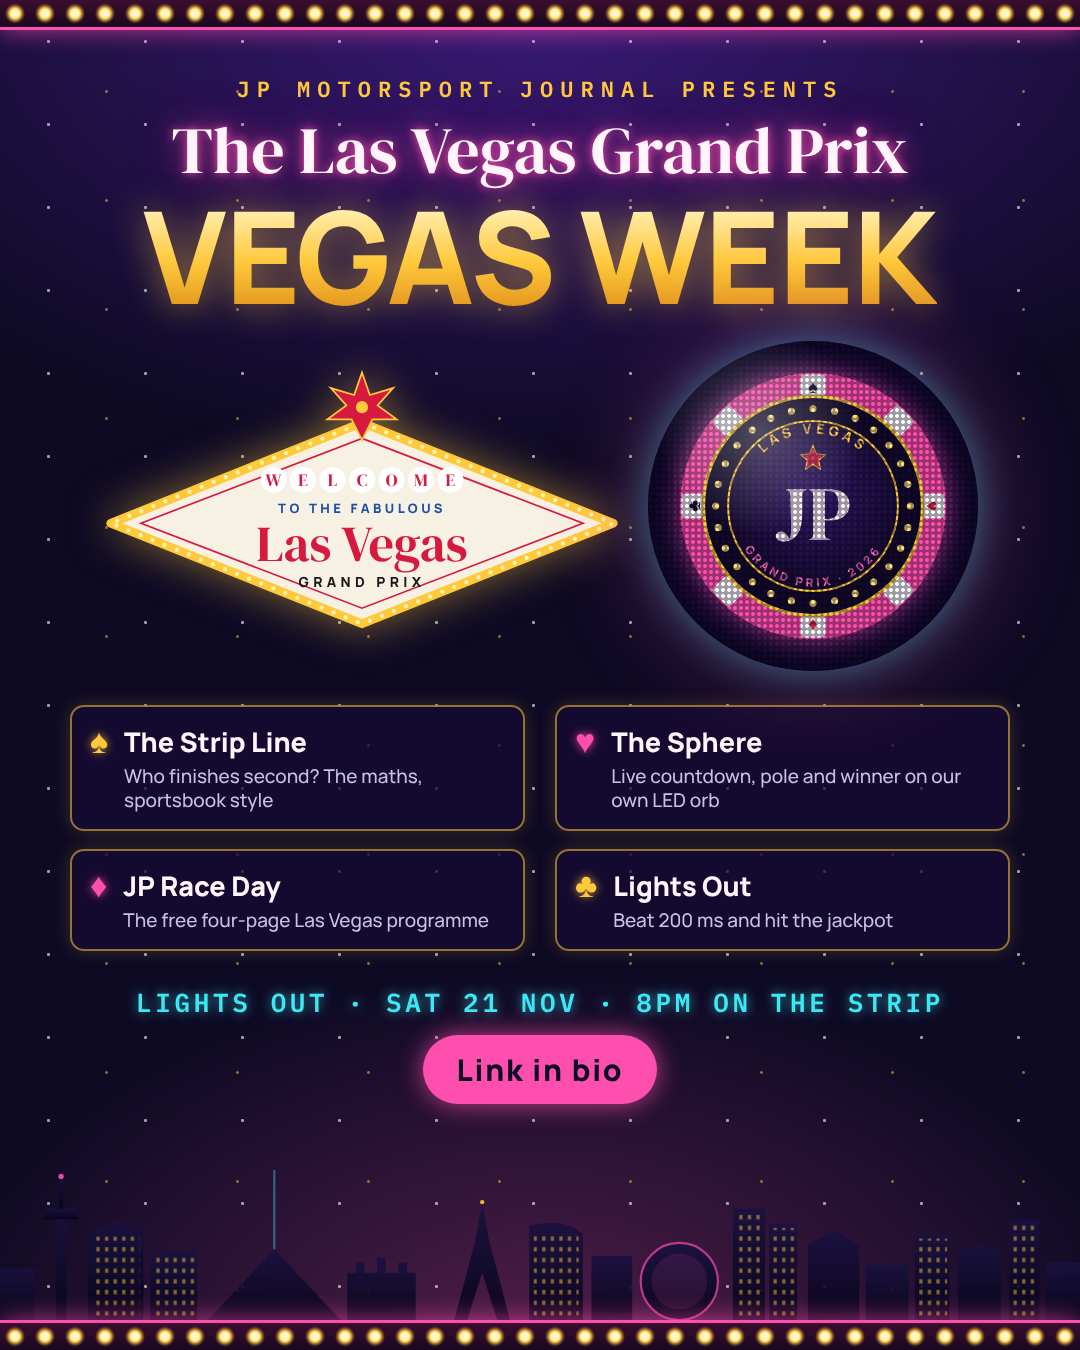
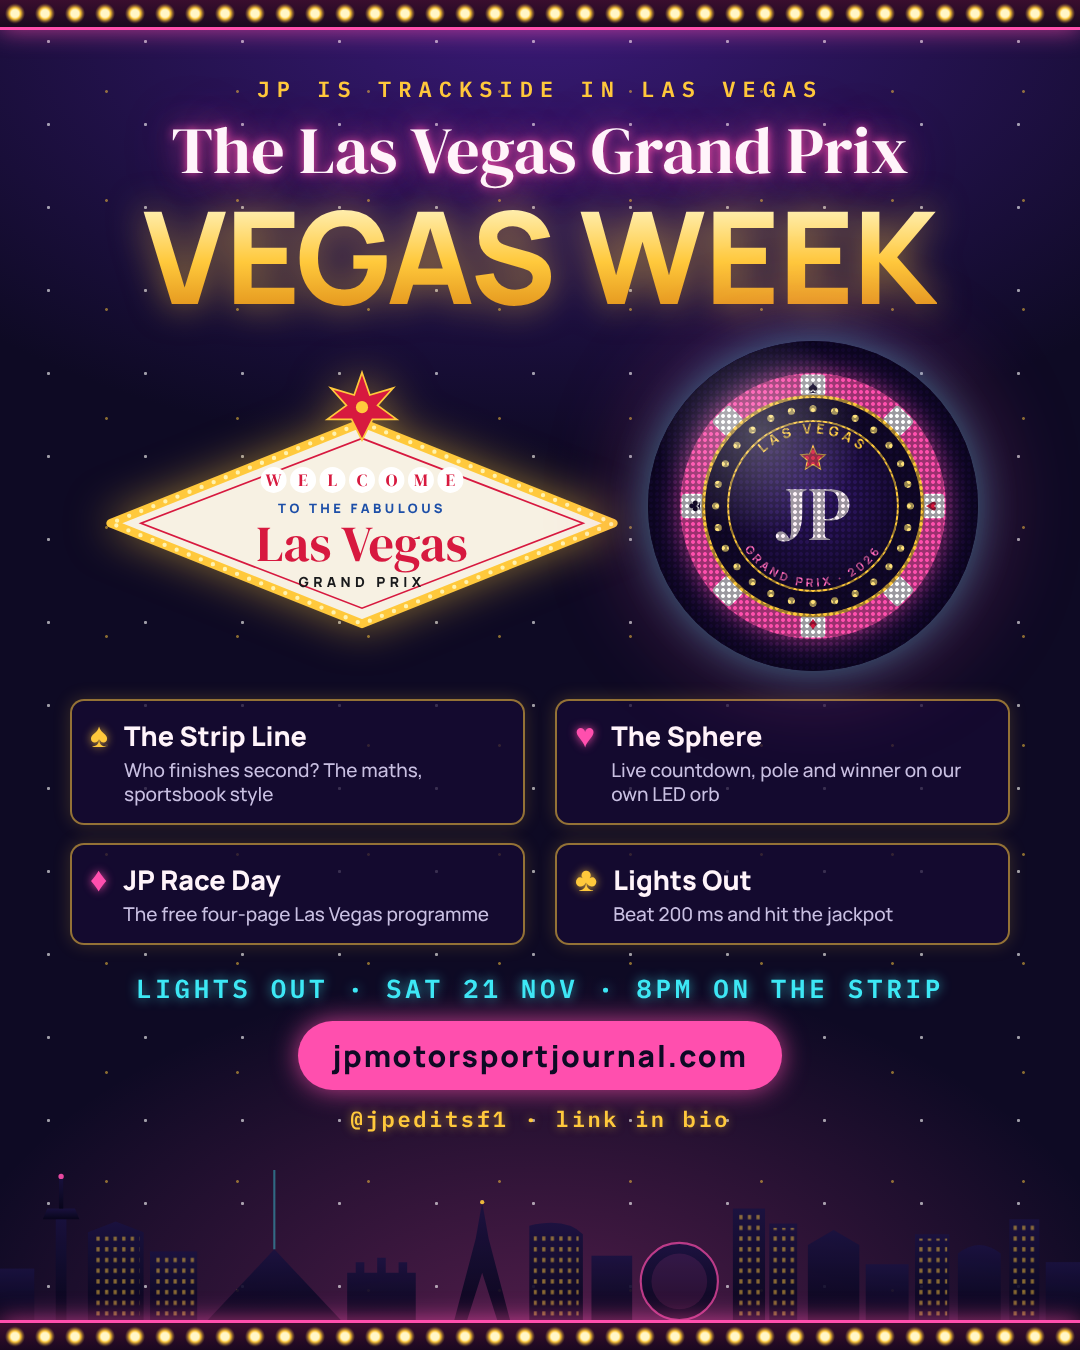
Promo: handle, site address and trackside line; caption; site_url for Race Day
Claude-Session: https://claude.ai/code/session_01XoehdVJCBcZsF325ffTd8M

diff --git a/promo/vegas-post.html b/promo/vegas-post.html
@@ -28,23 +28,24 @@ box-shadow:0 0 40px rgba(61,232,245,.4),0 0 100px rgba(255,79,174,.35)}
 .sphere::after{content:"";position:absolute;inset:0;border-radius:50%;z-index:3;
 background:radial-gradient(circle at 34% 28%,rgba(255,255,255,.28),transparent 32%),radial-gradient(circle,transparent 60%,rgba(0,0,0,.35) 80%,rgba(0,0,0,.75) 100%)}
 .duo.stack{flex-direction:column;gap:30px}
-ul{list-style:none;margin-top:34px;width:100%;display:grid;grid-template-columns:1fr 1fr;gap:18px 30px}
+ul{list-style:none;margin-top:28px;width:100%;display:grid;grid-template-columns:1fr 1fr;gap:18px 30px}
 li{display:flex;gap:16px;align-items:flex-start;border:2px solid rgba(255,201,60,.55);border-radius:14px;padding:16px 18px;
 background:rgba(23,11,51,.75);box-shadow:0 0 18px rgba(255,201,60,.18)}
 .suit{font-size:34px;line-height:1;color:#FFC93C;text-shadow:0 0 10px rgba(255,201,60,.8)}
 .s1,.s2{color:#FF4FAE;text-shadow:0 0 10px rgba(255,79,174,.9)}
 li b{display:block;font-size:27px;font-weight:800;color:#FFF4FA}
 li em{display:block;font-style:normal;font-size:19px;line-height:1.3;color:#C9C0E2;margin-top:4px}
-.race{margin-top:34px;text-align:center}
+.race{margin-top:26px;text-align:center}
 .race .when{font-family:'IBM Plex Mono',monospace;font-weight:600;font-size:26px;letter-spacing:.14em;color:#3DE8F5;text-shadow:0 0 12px rgba(61,232,245,.7)}
 .race .cta{display:inline-block;margin-top:16px;font-weight:800;font-size:30px;letter-spacing:.06em;color:#0E0A24;background:#FF4FAE;
 padding:14px 34px;border-radius:999px;box-shadow:0 0 26px rgba(255,79,174,.75)}
 .sky{position:absolute;left:0;right:0;bottom:30px;height:150px;background:url("../img/vegas-skyline.svg") center bottom/auto 150px repeat-x;opacity:.9}
+.race .handle{margin-top:14px;font-family:'IBM Plex Mono',monospace;font-weight:600;font-size:22px;letter-spacing:.12em;color:#FFC93C;text-shadow:0 0 10px rgba(255,201,60,.6)}
 </style></head><body>
 <div class="bulbs top"></div>
 <div class="sky"></div>
 <div class="wrap">
-  <div class="kick">JP Motorsport Journal presents</div>
+  <div class="kick">JP is trackside in Las Vegas</div>
   <div class="word">The Las Vegas Grand Prix</div>
   <div class="week">VEGAS WEEK</div>
   <div class="duo"><div class="sign"><svg viewBox="0 0 600 310" role="presentation" focusable="false">
@@ -59,7 +60,7 @@ padding:14px 34px;border-radius:999px;box-shadow:0 0 26px rgba(255,79,174,.75)}
         <circle cx="300" cy="44" r="7" fill="#FFC93C"/>
       </svg></div><div class="sphere"><svg class="vg-chip" viewBox="0 0 200 200" focusable="false"><defs><radialGradient id="vgc-core" cx="50%" cy="42%" r="60%"><stop offset="0" stop-color="#3A1C78"/><stop offset="1" stop-color="#12082C"/></radialGradient><path id="vgc-top" d="M 47 100 A 53 53 0 0 1 153 100"/><path id="vgc-bot" d="M 41 100 A 59 59 0 0 0 159 100"/></defs><circle cx="100" cy="100" r="97" fill="#FF4FAE"/><rect x="91" y="4" width="18" height="16" rx="3" fill="#FFFFFF" transform="rotate(0 100 100)"/><text x="100" y="17.5" text-anchor="middle" font-size="13" fill="#12082C" transform="rotate(0 100 100)">♠</text><rect x="91" y="4" width="18" height="16" rx="3" fill="#FFFFFF" transform="rotate(45 100 100)"/><rect x="91" y="4" width="18" height="16" rx="3" fill="#FFFFFF" transform="rotate(90 100 100)"/><text x="100" y="17.5" text-anchor="middle" font-size="13" fill="#D7193F" transform="rotate(90 100 100)">♥</text><rect x="91" y="4" width="18" height="16" rx="3" fill="#FFFFFF" transform="rotate(135 100 100)"/><rect x="91" y="4" width="18" height="16" rx="3" fill="#FFFFFF" transform="rotate(180 100 100)"/><text x="100" y="17.5" text-anchor="middle" font-size="13" fill="#D7193F" transform="rotate(180 100 100)">♦</text><rect x="91" y="4" width="18" height="16" rx="3" fill="#FFFFFF" transform="rotate(225 100 100)"/><rect x="91" y="4" width="18" height="16" rx="3" fill="#FFFFFF" transform="rotate(270 100 100)"/><text x="100" y="17.5" text-anchor="middle" font-size="13" fill="#12082C" transform="rotate(270 100 100)">♣</text><rect x="91" y="4" width="18" height="16" rx="3" fill="#FFFFFF" transform="rotate(315 100 100)"/><circle cx="100" cy="100" r="80" fill="#12082C" stroke="#FFC93C" stroke-width="2.5"/><circle cx="171.0" cy="100.0" r="2.6" fill="#FFE27A"/><circle cx="169.2" cy="115.8" r="2.6" fill="#FFE27A"/><circle cx="164.0" cy="130.8" r="2.6" fill="#FFE27A"/><circle cx="155.5" cy="144.3" r="2.6" fill="#FFE27A"/><circle cx="144.3" cy="155.5" r="2.6" fill="#FFE27A"/><circle cx="130.8" cy="164.0" r="2.6" fill="#FFE27A"/><circle cx="115.8" cy="169.2" r="2.6" fill="#FFE27A"/><circle cx="100.0" cy="171.0" r="2.6" fill="#FFE27A"/><circle cx="84.2" cy="169.2" r="2.6" fill="#FFE27A"/><circle cx="69.2" cy="164.0" r="2.6" fill="#FFE27A"/><circle cx="55.7" cy="155.5" r="2.6" fill="#FFE27A"/><circle cx="44.5" cy="144.3" r="2.6" fill="#FFE27A"/><circle cx="36.0" cy="130.8" r="2.6" fill="#FFE27A"/><circle cx="30.8" cy="115.8" r="2.6" fill="#FFE27A"/><circle cx="29.0" cy="100.0" r="2.6" fill="#FFE27A"/><circle cx="30.8" cy="84.2" r="2.6" fill="#FFE27A"/><circle cx="36.0" cy="69.2" r="2.6" fill="#FFE27A"/><circle cx="44.5" cy="55.7" r="2.6" fill="#FFE27A"/><circle cx="55.7" cy="44.5" r="2.6" fill="#FFE27A"/><circle cx="69.2" cy="36.0" r="2.6" fill="#FFE27A"/><circle cx="84.2" cy="30.8" r="2.6" fill="#FFE27A"/><circle cx="100.0" cy="29.0" r="2.6" fill="#FFE27A"/><circle cx="115.8" cy="30.8" r="2.6" fill="#FFE27A"/><circle cx="130.8" cy="36.0" r="2.6" fill="#FFE27A"/><circle cx="144.3" cy="44.5" r="2.6" fill="#FFE27A"/><circle cx="155.5" cy="55.7" r="2.6" fill="#FFE27A"/><circle cx="164.0" cy="69.2" r="2.6" fill="#FFE27A"/><circle cx="169.2" cy="84.2" r="2.6" fill="#FFE27A"/><circle cx="100" cy="100" r="62" fill="url(#vgc-core)" stroke="#FFC93C" stroke-width="1.5"/><text font-family="Manrope, system-ui, sans-serif" font-weight="800" font-size="10" letter-spacing="3" fill="#FFC93C"><textPath href="#vgc-top" startOffset="50%" text-anchor="middle">LAS VEGAS</textPath></text><text font-family="Manrope, system-ui, sans-serif" font-weight="800" font-size="8.5" letter-spacing="2.4" fill="#FF6BBD"><textPath href="#vgc-bot" startOffset="50%" text-anchor="middle">GRAND PRIX · 2026</textPath></text><path d="M100 56 l2.6 6 6.4.6-4.9 4.2 1.5 6.3-5.6-3.4-5.6 3.4 1.5-6.3-4.9-4.2 6.4-.6z" fill="#D7193F" stroke="#FFC93C" stroke-width=".8"/><text x="100" y="125" text-anchor="middle" font-family="DM Serif Display, Georgia, serif" font-size="56" fill="#FFF4FA" class="vgc-jp">JP</text></svg></div></div>
   <ul><li><span class="suit s0">♠</span><span><b>The Strip Line</b><em>Who finishes second? The maths, sportsbook style</em></span></li><li><span class="suit s1">♥</span><span><b>The Sphere</b><em>Live countdown, pole and winner on our own LED orb</em></span></li><li><span class="suit s2">♦</span><span><b>JP Race Day</b><em>The free four-page Las Vegas programme</em></span></li><li><span class="suit s3">♣</span><span><b>Lights Out</b><em>Beat 200 ms and hit the jackpot</em></span></li></ul>
-  <div class="race"><div class="when">LIGHTS OUT · SAT 21 NOV · 8PM ON THE STRIP</div><div class="cta">Link in bio</div></div>
+  <div class="race"><div class="when">LIGHTS OUT · SAT 21 NOV · 8PM ON THE STRIP</div><div class="cta">jpmotorsportjournal.com</div><div class="handle">@jpeditsf1 · link in bio</div></div>
 </div>
 <div class="bulbs bot"></div>
 </body></html>

diff --git a/promo/vegas-story.html b/promo/vegas-story.html
@@ -11,7 +11,7 @@ radial-gradient(ellipse 80% 40% at 50% 100%,rgba(255,79,174,.28) 0%,transparent 
 background:radial-gradient(circle,#FFF6C8 0 4px,#FFC93C 5.5px,rgba(255,201,60,.35) 8px,transparent 10px) 0 50%/30px 30px repeat-x,linear-gradient(#3A0E2E,#1A0820)}
 .top{top:0;border-bottom:3px solid #FF4FAE;box-shadow:0 0 24px rgba(255,79,174,.7)}
 .bot{bottom:0;border-top:3px solid #FF4FAE;box-shadow:0 0 24px rgba(255,79,174,.7)}
-.wrap{position:absolute;inset:30px 0;display:flex;flex-direction:column;align-items:center;padding:190px 70px 0}
+.wrap{position:absolute;inset:30px 0;display:flex;flex-direction:column;align-items:center;padding:170px 70px 0}
 .kick{font-family:'IBM Plex Mono',monospace;font-weight:600;font-size:22px;letter-spacing:.32em;color:#FFC93C;text-transform:uppercase}
 .word{font-family:'DM Serif Display',serif;font-size:74px;line-height:1;margin-top:14px;color:#FFF4FA;
 text-shadow:0 0 10px rgba(255,79,174,.95),0 0 30px rgba(255,79,174,.6),0 0 60px rgba(255,79,174,.35);white-space:nowrap}
@@ -40,11 +40,12 @@ li em{display:block;font-style:normal;font-size:19px;line-height:1.3;color:#C9C0
 .race .cta{display:inline-block;margin-top:22px;font-weight:800;font-size:30px;letter-spacing:.06em;color:#0E0A24;background:#FF4FAE;
 padding:14px 34px;border-radius:999px;box-shadow:0 0 26px rgba(255,79,174,.75)}
 .sky{position:absolute;left:0;right:0;bottom:30px;height:230px;background:url("../img/vegas-skyline.svg") center bottom/auto 230px repeat-x;opacity:.9}
+.race .handle{margin-top:14px;font-family:'IBM Plex Mono',monospace;font-weight:600;font-size:22px;letter-spacing:.12em;color:#FFC93C;text-shadow:0 0 10px rgba(255,201,60,.6)}
 </style></head><body>
 <div class="bulbs top"></div>
 <div class="sky"></div>
 <div class="wrap">
-  <div class="kick">JP Motorsport Journal presents</div>
+  <div class="kick">JP is trackside in Las Vegas</div>
   <div class="word">The Las Vegas Grand Prix</div>
   <div class="week">VEGAS WEEK</div>
   <div class="duo stack"><div class="sign"><svg viewBox="0 0 600 310" role="presentation" focusable="false">
@@ -59,7 +60,7 @@ padding:14px 34px;border-radius:999px;box-shadow:0 0 26px rgba(255,79,174,.75)}
         <circle cx="300" cy="44" r="7" fill="#FFC93C"/>
       </svg></div><div class="sphere"><svg class="vg-chip" viewBox="0 0 200 200" focusable="false"><defs><radialGradient id="vgc-core" cx="50%" cy="42%" r="60%"><stop offset="0" stop-color="#3A1C78"/><stop offset="1" stop-color="#12082C"/></radialGradient><path id="vgc-top" d="M 47 100 A 53 53 0 0 1 153 100"/><path id="vgc-bot" d="M 41 100 A 59 59 0 0 0 159 100"/></defs><circle cx="100" cy="100" r="97" fill="#FF4FAE"/><rect x="91" y="4" width="18" height="16" rx="3" fill="#FFFFFF" transform="rotate(0 100 100)"/><text x="100" y="17.5" text-anchor="middle" font-size="13" fill="#12082C" transform="rotate(0 100 100)">♠</text><rect x="91" y="4" width="18" height="16" rx="3" fill="#FFFFFF" transform="rotate(45 100 100)"/><rect x="91" y="4" width="18" height="16" rx="3" fill="#FFFFFF" transform="rotate(90 100 100)"/><text x="100" y="17.5" text-anchor="middle" font-size="13" fill="#D7193F" transform="rotate(90 100 100)">♥</text><rect x="91" y="4" width="18" height="16" rx="3" fill="#FFFFFF" transform="rotate(135 100 100)"/><rect x="91" y="4" width="18" height="16" rx="3" fill="#FFFFFF" transform="rotate(180 100 100)"/><text x="100" y="17.5" text-anchor="middle" font-size="13" fill="#D7193F" transform="rotate(180 100 100)">♦</text><rect x="91" y="4" width="18" height="16" rx="3" fill="#FFFFFF" transform="rotate(225 100 100)"/><rect x="91" y="4" width="18" height="16" rx="3" fill="#FFFFFF" transform="rotate(270 100 100)"/><text x="100" y="17.5" text-anchor="middle" font-size="13" fill="#12082C" transform="rotate(270 100 100)">♣</text><rect x="91" y="4" width="18" height="16" rx="3" fill="#FFFFFF" transform="rotate(315 100 100)"/><circle cx="100" cy="100" r="80" fill="#12082C" stroke="#FFC93C" stroke-width="2.5"/><circle cx="171.0" cy="100.0" r="2.6" fill="#FFE27A"/><circle cx="169.2" cy="115.8" r="2.6" fill="#FFE27A"/><circle cx="164.0" cy="130.8" r="2.6" fill="#FFE27A"/><circle cx="155.5" cy="144.3" r="2.6" fill="#FFE27A"/><circle cx="144.3" cy="155.5" r="2.6" fill="#FFE27A"/><circle cx="130.8" cy="164.0" r="2.6" fill="#FFE27A"/><circle cx="115.8" cy="169.2" r="2.6" fill="#FFE27A"/><circle cx="100.0" cy="171.0" r="2.6" fill="#FFE27A"/><circle cx="84.2" cy="169.2" r="2.6" fill="#FFE27A"/><circle cx="69.2" cy="164.0" r="2.6" fill="#FFE27A"/><circle cx="55.7" cy="155.5" r="2.6" fill="#FFE27A"/><circle cx="44.5" cy="144.3" r="2.6" fill="#FFE27A"/><circle cx="36.0" cy="130.8" r="2.6" fill="#FFE27A"/><circle cx="30.8" cy="115.8" r="2.6" fill="#FFE27A"/><circle cx="29.0" cy="100.0" r="2.6" fill="#FFE27A"/><circle cx="30.8" cy="84.2" r="2.6" fill="#FFE27A"/><circle cx="36.0" cy="69.2" r="2.6" fill="#FFE27A"/><circle cx="44.5" cy="55.7" r="2.6" fill="#FFE27A"/><circle cx="55.7" cy="44.5" r="2.6" fill="#FFE27A"/><circle cx="69.2" cy="36.0" r="2.6" fill="#FFE27A"/><circle cx="84.2" cy="30.8" r="2.6" fill="#FFE27A"/><circle cx="100.0" cy="29.0" r="2.6" fill="#FFE27A"/><circle cx="115.8" cy="30.8" r="2.6" fill="#FFE27A"/><circle cx="130.8" cy="36.0" r="2.6" fill="#FFE27A"/><circle cx="144.3" cy="44.5" r="2.6" fill="#FFE27A"/><circle cx="155.5" cy="55.7" r="2.6" fill="#FFE27A"/><circle cx="164.0" cy="69.2" r="2.6" fill="#FFE27A"/><circle cx="169.2" cy="84.2" r="2.6" fill="#FFE27A"/><circle cx="100" cy="100" r="62" fill="url(#vgc-core)" stroke="#FFC93C" stroke-width="1.5"/><text font-family="Manrope, system-ui, sans-serif" font-weight="800" font-size="10" letter-spacing="3" fill="#FFC93C"><textPath href="#vgc-top" startOffset="50%" text-anchor="middle">LAS VEGAS</textPath></text><text font-family="Manrope, system-ui, sans-serif" font-weight="800" font-size="8.5" letter-spacing="2.4" fill="#FF6BBD"><textPath href="#vgc-bot" startOffset="50%" text-anchor="middle">GRAND PRIX · 2026</textPath></text><path d="M100 56 l2.6 6 6.4.6-4.9 4.2 1.5 6.3-5.6-3.4-5.6 3.4 1.5-6.3-4.9-4.2 6.4-.6z" fill="#D7193F" stroke="#FFC93C" stroke-width=".8"/><text x="100" y="125" text-anchor="middle" font-family="DM Serif Display, Georgia, serif" font-size="56" fill="#FFF4FA" class="vgc-jp">JP</text></svg></div></div>
   <ul><li><span class="suit s0">♠</span><span><b>The Strip Line</b><em>Who finishes second? The maths, sportsbook style</em></span></li><li><span class="suit s1">♥</span><span><b>The Sphere</b><em>Live countdown, pole and winner on our own LED orb</em></span></li><li><span class="suit s2">♦</span><span><b>JP Race Day</b><em>The free four-page Las Vegas programme</em></span></li><li><span class="suit s3">♣</span><span><b>Lights Out</b><em>Beat 200 ms and hit the jackpot</em></span></li></ul>
-  <div class="race"><div class="when">LIGHTS OUT · SAT 21 NOV · 8PM ON THE STRIP</div><div class="cta">Link in bio</div></div>
+  <div class="race"><div class="when">LIGHTS OUT · SAT 21 NOV · 8PM ON THE STRIP</div><div class="cta">jpmotorsportjournal.com</div><div class="handle">@jpeditsf1 · link in bio</div></div>
 </div>
 <div class="bulbs bot"></div>
 </body></html>
